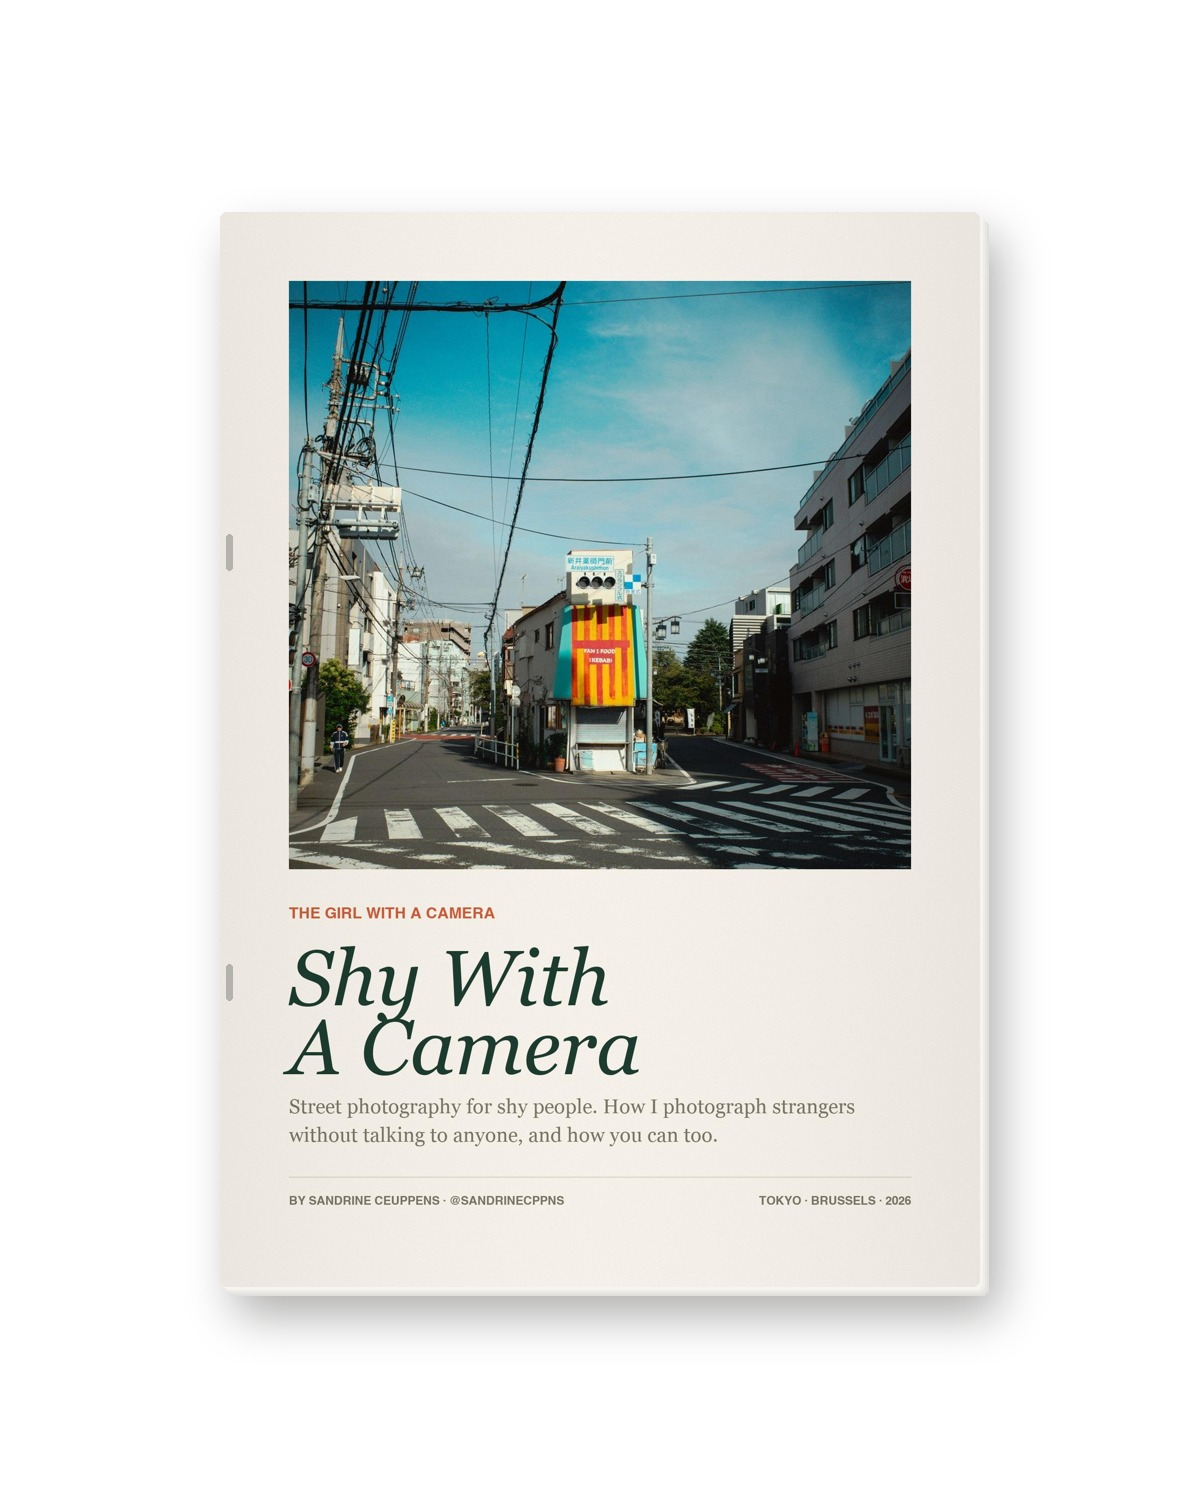
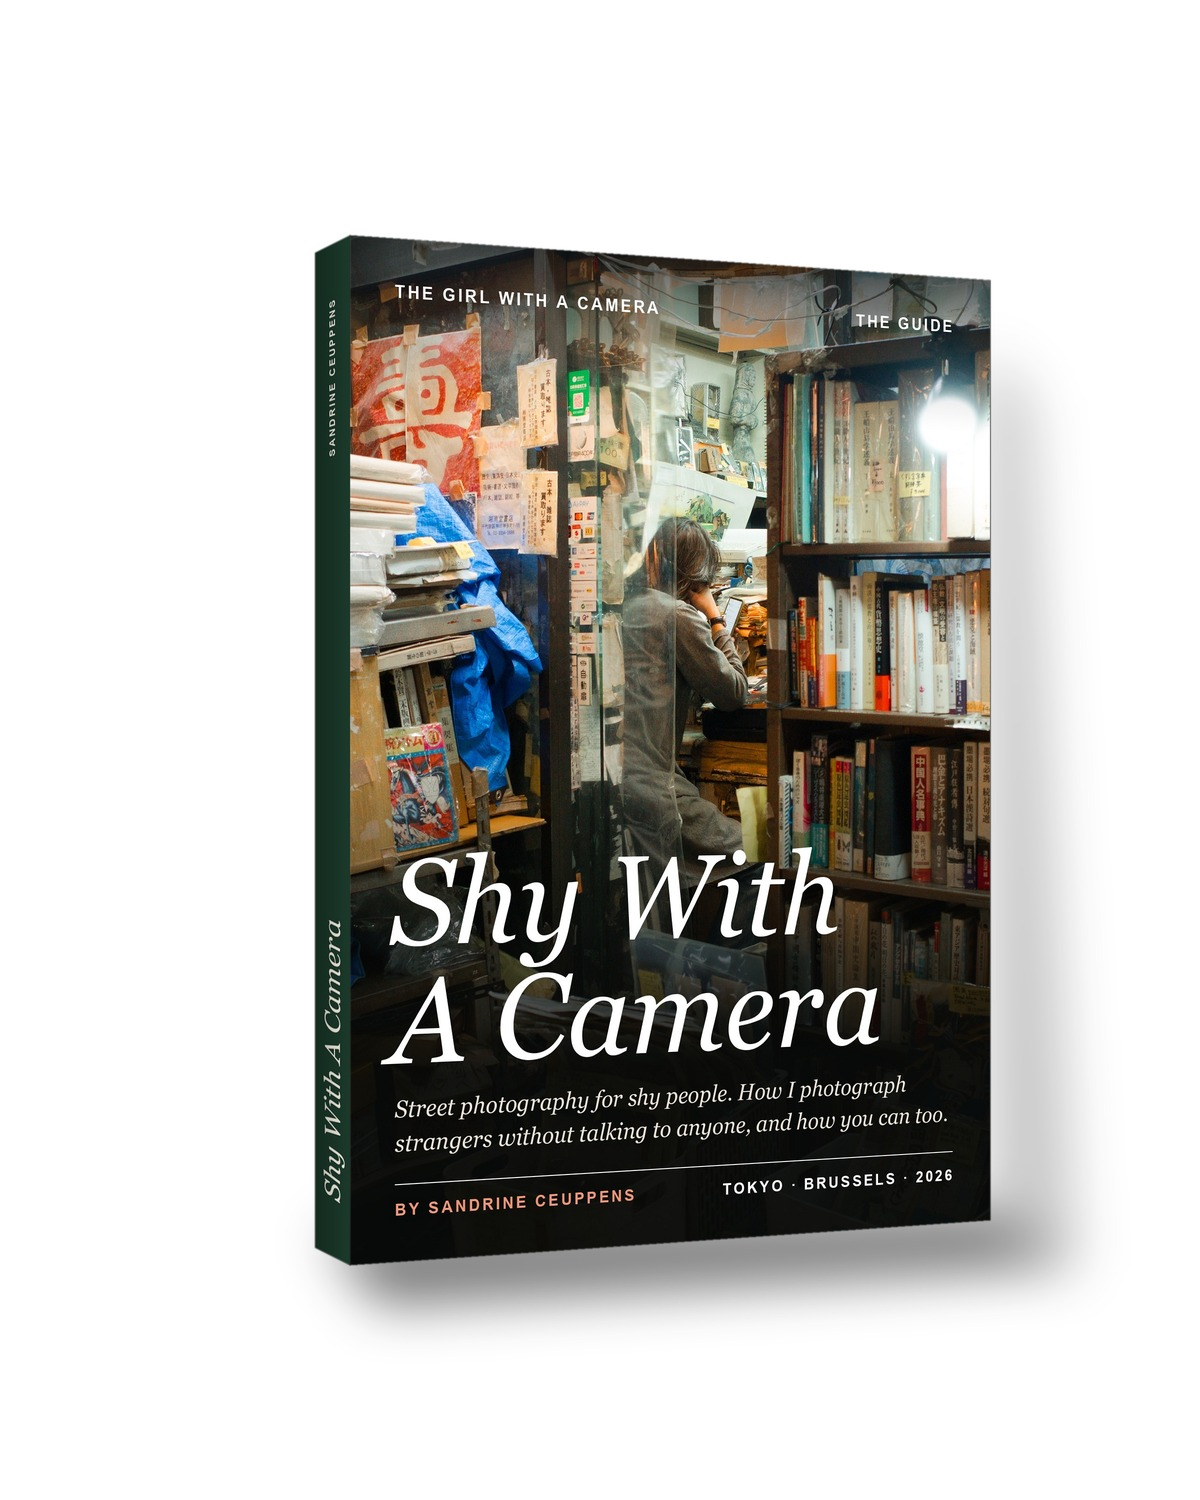
Store : produits 3D qui oscillent seuls, Shy With A Camera en livre 3D
Claude-Session: https://claude.ai/code/session_01HX1U9zZyBRytfpKbMw9Kda

diff --git a/app/[lang]/store/ProductBox.tsx b/app/[lang]/store/ProductBox.tsx
@@ -1,47 +1,31 @@
-'use client';
-
-import { useCallback, useRef } from 'react';
 import s from './ProductBox.module.css';
 
 interface Props {
   front: string;
   spine: string;
   alt: string;
-  /** Couleur des faces sans visuel (dos, dessus, dessous). */
+  /** Couleur du dos. */
   color: string;
+  /** Couleur des cotes sans visuel (droite, dessus, dessous). Par defaut : color. */
+  edge?: string;
+  /** Epaisseur, en fraction de la largeur de la face (0.15 = boitier, 0.07 = livre). */
+  depth?: number;
+  /** Decalage du mouvement, pour que deux produits ne bougent pas en meme temps. */
+  delay?: number;
 }
 
-// Boitier produit en vrai 3D (CSS) : face avant + tranche. Au repos il est
-// legerement tourne ; au survol il suit la souris. Sur ecran tactile il reste
-// dans sa pose de repos.
-export default function ProductBox({ front, spine, alt, color }: Props) {
-  const ref = useRef<HTMLDivElement>(null);
-
-  const move = useCallback((e: React.PointerEvent<HTMLDivElement>) => {
-    if (e.pointerType === 'touch') return;
-    const el = ref.current;
-    if (!el) return;
-    const r = el.getBoundingClientRect();
-    const x = (e.clientX - r.left) / r.width; // 0 a gauche, 1 a droite
-    const y = (e.clientY - r.top) / r.height;
-    el.style.setProperty('--ry', `${(8 + (1 - x) * 38).toFixed(1)}deg`);
-    el.style.setProperty('--rx', `${((y - 0.5) * -14).toFixed(1)}deg`);
-  }, []);
-
-  const leave = useCallback(() => {
-    const el = ref.current;
-    if (!el) return;
-    el.style.removeProperty('--ry');
-    el.style.removeProperty('--rx');
-  }, []);
-
+// Produit en vrai 3D (CSS) : face avant + tranche. Il oscille doucement tout
+// seul, en continu, sans dependre de la souris.
+export default function ProductBox({ front, spine, alt, color, edge, depth = 0.15, delay = 0 }: Props) {
   return (
     <div
-      ref={ref}
       className={s.scene}
-      onPointerMove={move}
-      onPointerLeave={leave}
-      style={{ ['--box-color' as string]: color }}
+      style={{
+        ['--box-color' as string]: color,
+        ['--box-edge' as string]: edge ?? color,
+        ['--depth' as string]: depth,
+        ['--delay' as string]: `${delay}s`,
+      }}
     >
       <div className={s.shadow} aria-hidden />
       <div className={s.box}>

diff --git a/app/[lang]/store/page.tsx b/app/[lang]/store/page.tsx
@@ -16,7 +16,7 @@ const PRODUCTS = [
     name: "Street",
     meta: { fr: "Le preset signature · 9 €", en: "The signature preset · 9 €" },
     alt: "Street, the signature Lightroom preset",
-    box: { front: "/store/street-box-front.jpg", spine: "/store/street-box-spine.jpg", color: "#b02c1e" },
+    box: { front: "/store/street-box-front.jpg", spine: "/store/street-box-spine.jpg", color: "#b02c1e", edge: "#b02c1e", depth: 0.15, delay: 0 },
   },
   {
     slug: "shy",
@@ -24,6 +24,7 @@ const PRODUCTS = [
     name: "Shy With A Camera",
     meta: { fr: "Le guide street pour les timides · 12 €", en: "The shy street guide · 12 €" },
     alt: "Shy With A Camera, the street photography guide for shy people",
+    box: { front: "/store/shy-box-front.jpg", spine: "/store/shy-box-spine.jpg", color: "#1c3a2c", edge: "#efe7d8", depth: 0.07, delay: -3.5 },
   },
 ] as const;
 
@@ -73,11 +74,15 @@ export default async function StorePage({ params }: Props) {
         <div className={s.grid}>
           {PRODUCTS.map((p) => (
             <Link key={p.slug} href={`/${lang}/store/${p.slug}`} className={s.card}>
-              {"box" in p ? (
-                <ProductBox front={p.box.front} spine={p.box.spine} alt={p.alt} color={p.box.color} />
-              ) : (
-                <img src={p.image} alt={p.alt} loading="lazy" />
-              )}
+              <ProductBox
+                front={p.box.front}
+                spine={p.box.spine}
+                alt={p.alt}
+                color={p.box.color}
+                edge={p.box.edge}
+                depth={p.box.depth}
+                delay={p.box.delay}
+              />
               <span className={s.cardName}>{p.name}</span>
               <span className={s.cardMeta}>{p.meta[lang]}</span>
             </Link>

diff --git a/app/[lang]/store/ProductBox.module.css b/app/[lang]/store/ProductBox.module.css
@@ -1,11 +1,9 @@
 /* Boitier produit 3D. Les dimensions suivent la largeur de la scene (cqw). */
 
 .scene {
-  --ry: 30deg;
-  --rx: 0deg;
   --w: 64cqw;
   --h: calc(var(--w) * 1.4144);
-  --d: 9.6cqw;
+  --d: calc(var(--w) * var(--depth, 0.15));
   container-type: inline-size;
   position: relative;
   width: 100%;
@@ -20,13 +18,19 @@
   width: var(--w);
   height: var(--h);
   transform-style: preserve-3d;
-  transform: rotateX(var(--rx)) rotateY(var(--ry));
-  transition: transform 0.45s cubic-bezier(0.2, 0.7, 0.2, 1);
+  transform: rotateX(0deg) rotateY(28deg);
+  animation: sway 7s ease-in-out var(--delay, 0s) infinite alternate;
   will-change: transform;
 }
 
-.scene:hover .box {
-  transition-duration: 0.12s;
+/* Oscillation lente et continue : le boitier tourne un peu sur lui meme. */
+@keyframes sway {
+  from {
+    transform: rotateX(2deg) rotateY(16deg);
+  }
+  to {
+    transform: rotateX(-2deg) rotateY(40deg);
+  }
 }
 
 .box > * {
@@ -78,7 +82,7 @@
 
 .right {
   right: 0;
-  background: var(--box-color);
+  background: var(--box-edge);
   filter: brightness(0.6);
   transform: translateX(calc(var(--d) / 2)) rotateY(90deg);
 }
@@ -88,7 +92,7 @@
   left: 0;
   width: 100%;
   height: var(--d);
-  background: var(--box-color);
+  background: var(--box-edge);
 }
 
 .top {
@@ -117,6 +121,6 @@
 
 @media (prefers-reduced-motion: reduce) {
   .box {
-    transition: none;
+    animation: none;
   }
 }
